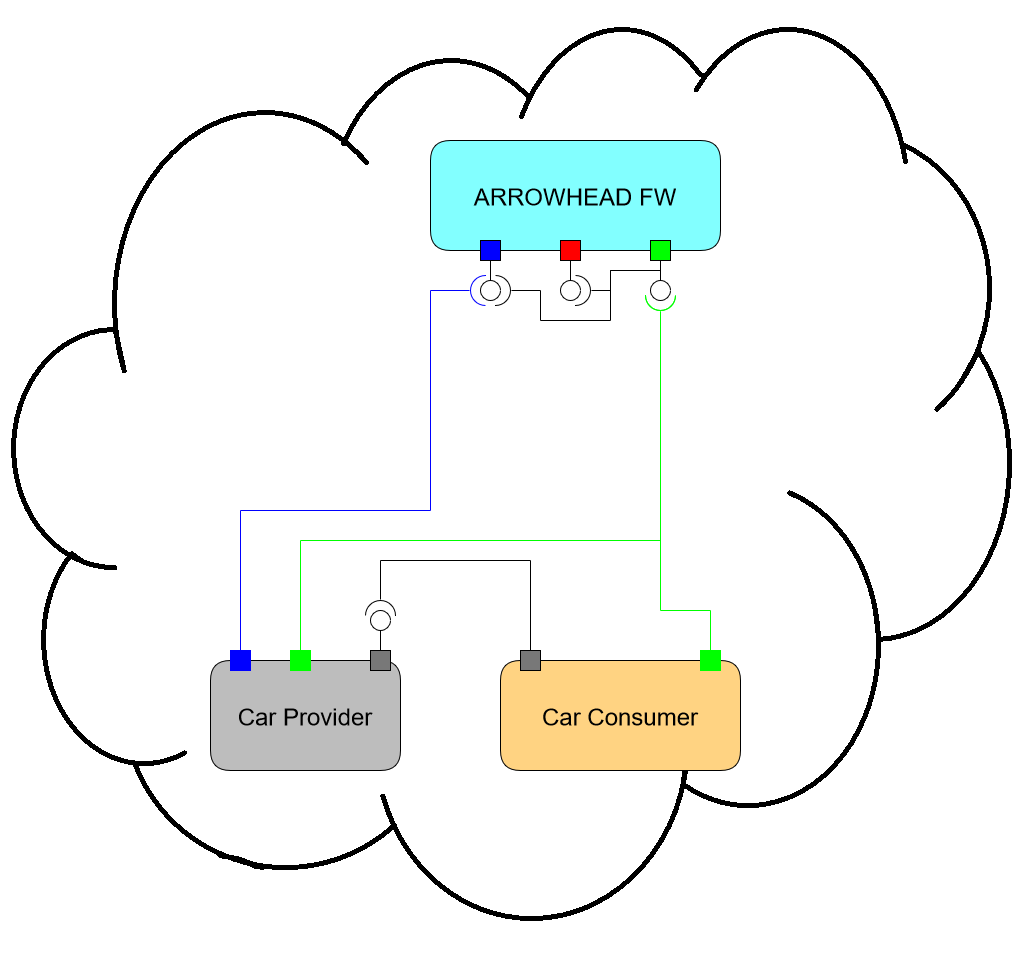
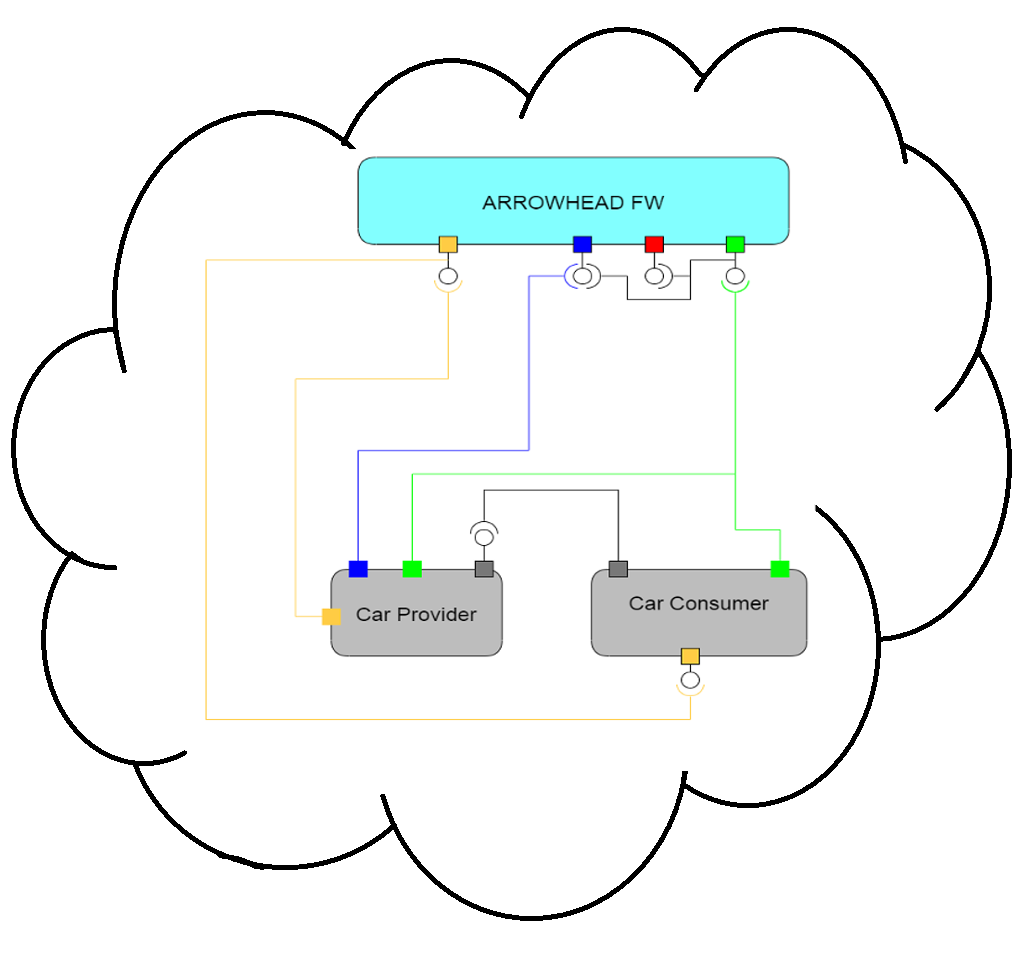
documentation update

diff --git a/demo-car-with-events/README.md b/demo-car-with-events/README.md
@@ -7,6 +7,7 @@ The goal of the project is to simply demonstrate how a consumer could orchestrat
 ![#1589F0](https://placehold.it/15/1589F0/000000?text=+) `AH Service Registry`
 ![#f03c15](https://placehold.it/15/f03c15/000000?text=+) `AH Authorization` 
 ![#c5f015](https://placehold.it/15/c5f015/000000?text=+) `AH Orchestrator`
+![#ffcc44](https://placehold.it/15/ffcc44/000000?text=+) `AH Event Handler`
 ![Alt text](https://github.com/arrowhead-f/sos-examples-spring/blob/master/demo-car/doc/overview.png)
 
 ## Service Descriptions
